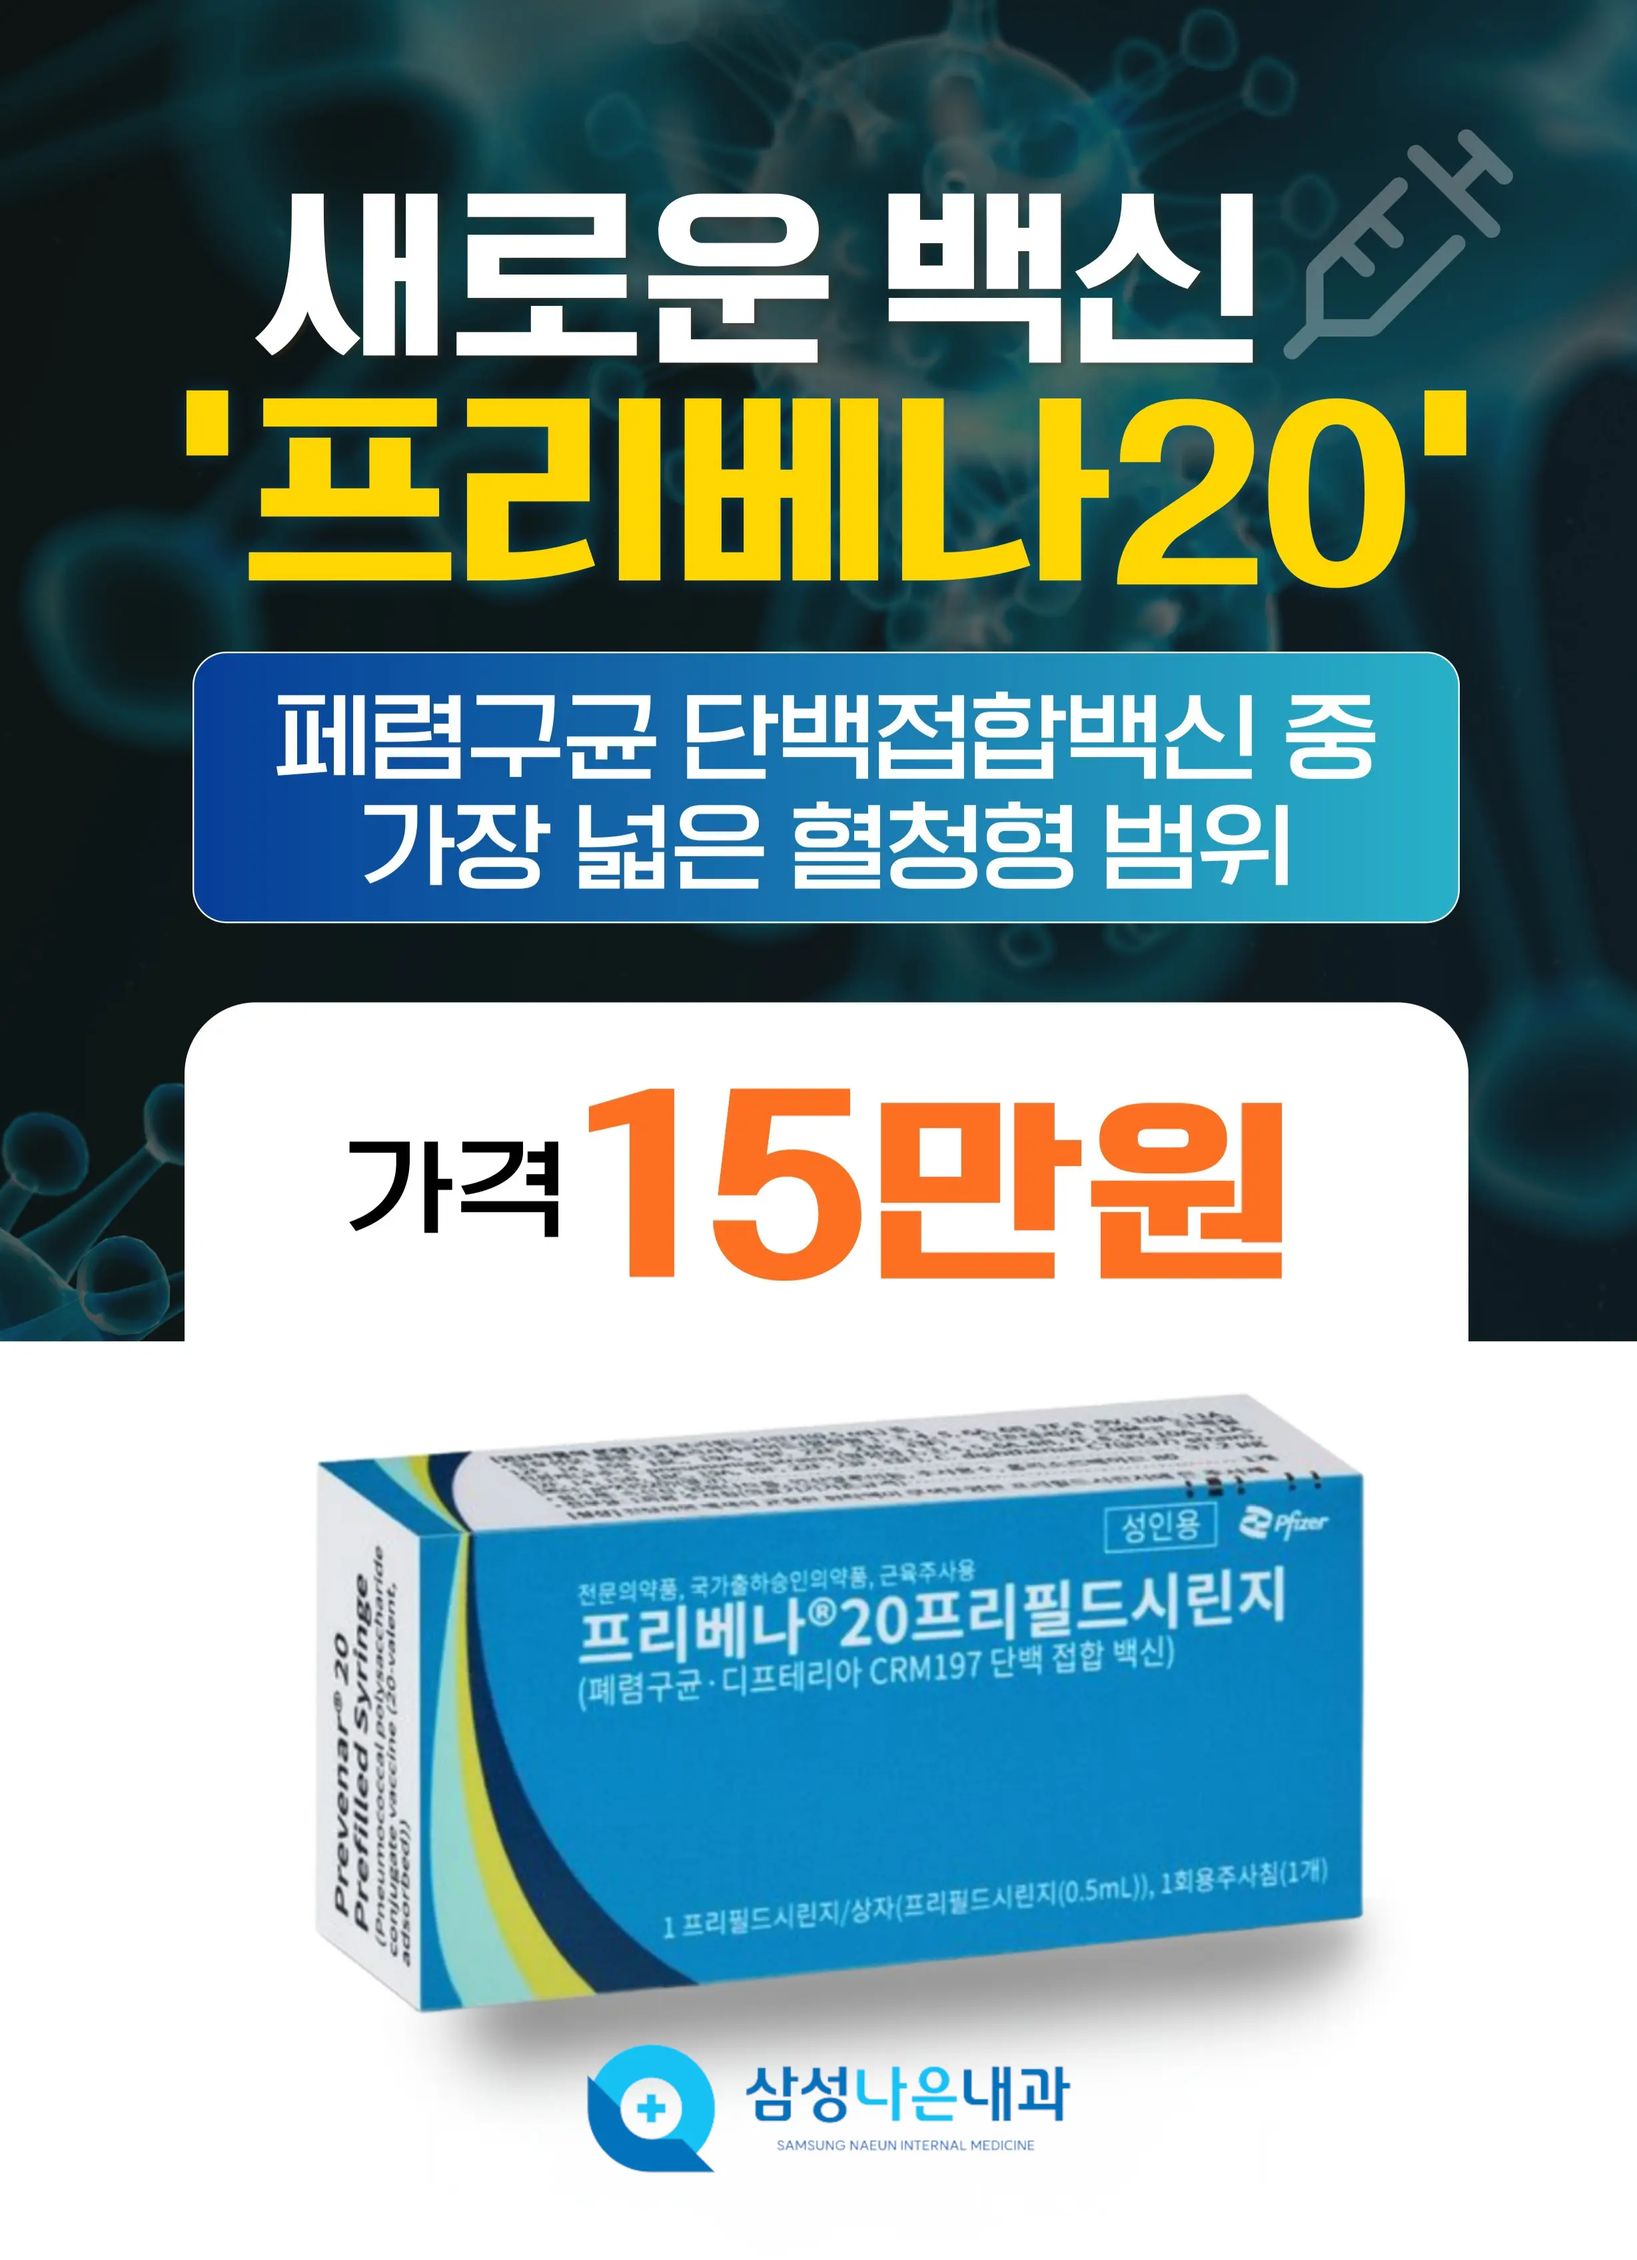
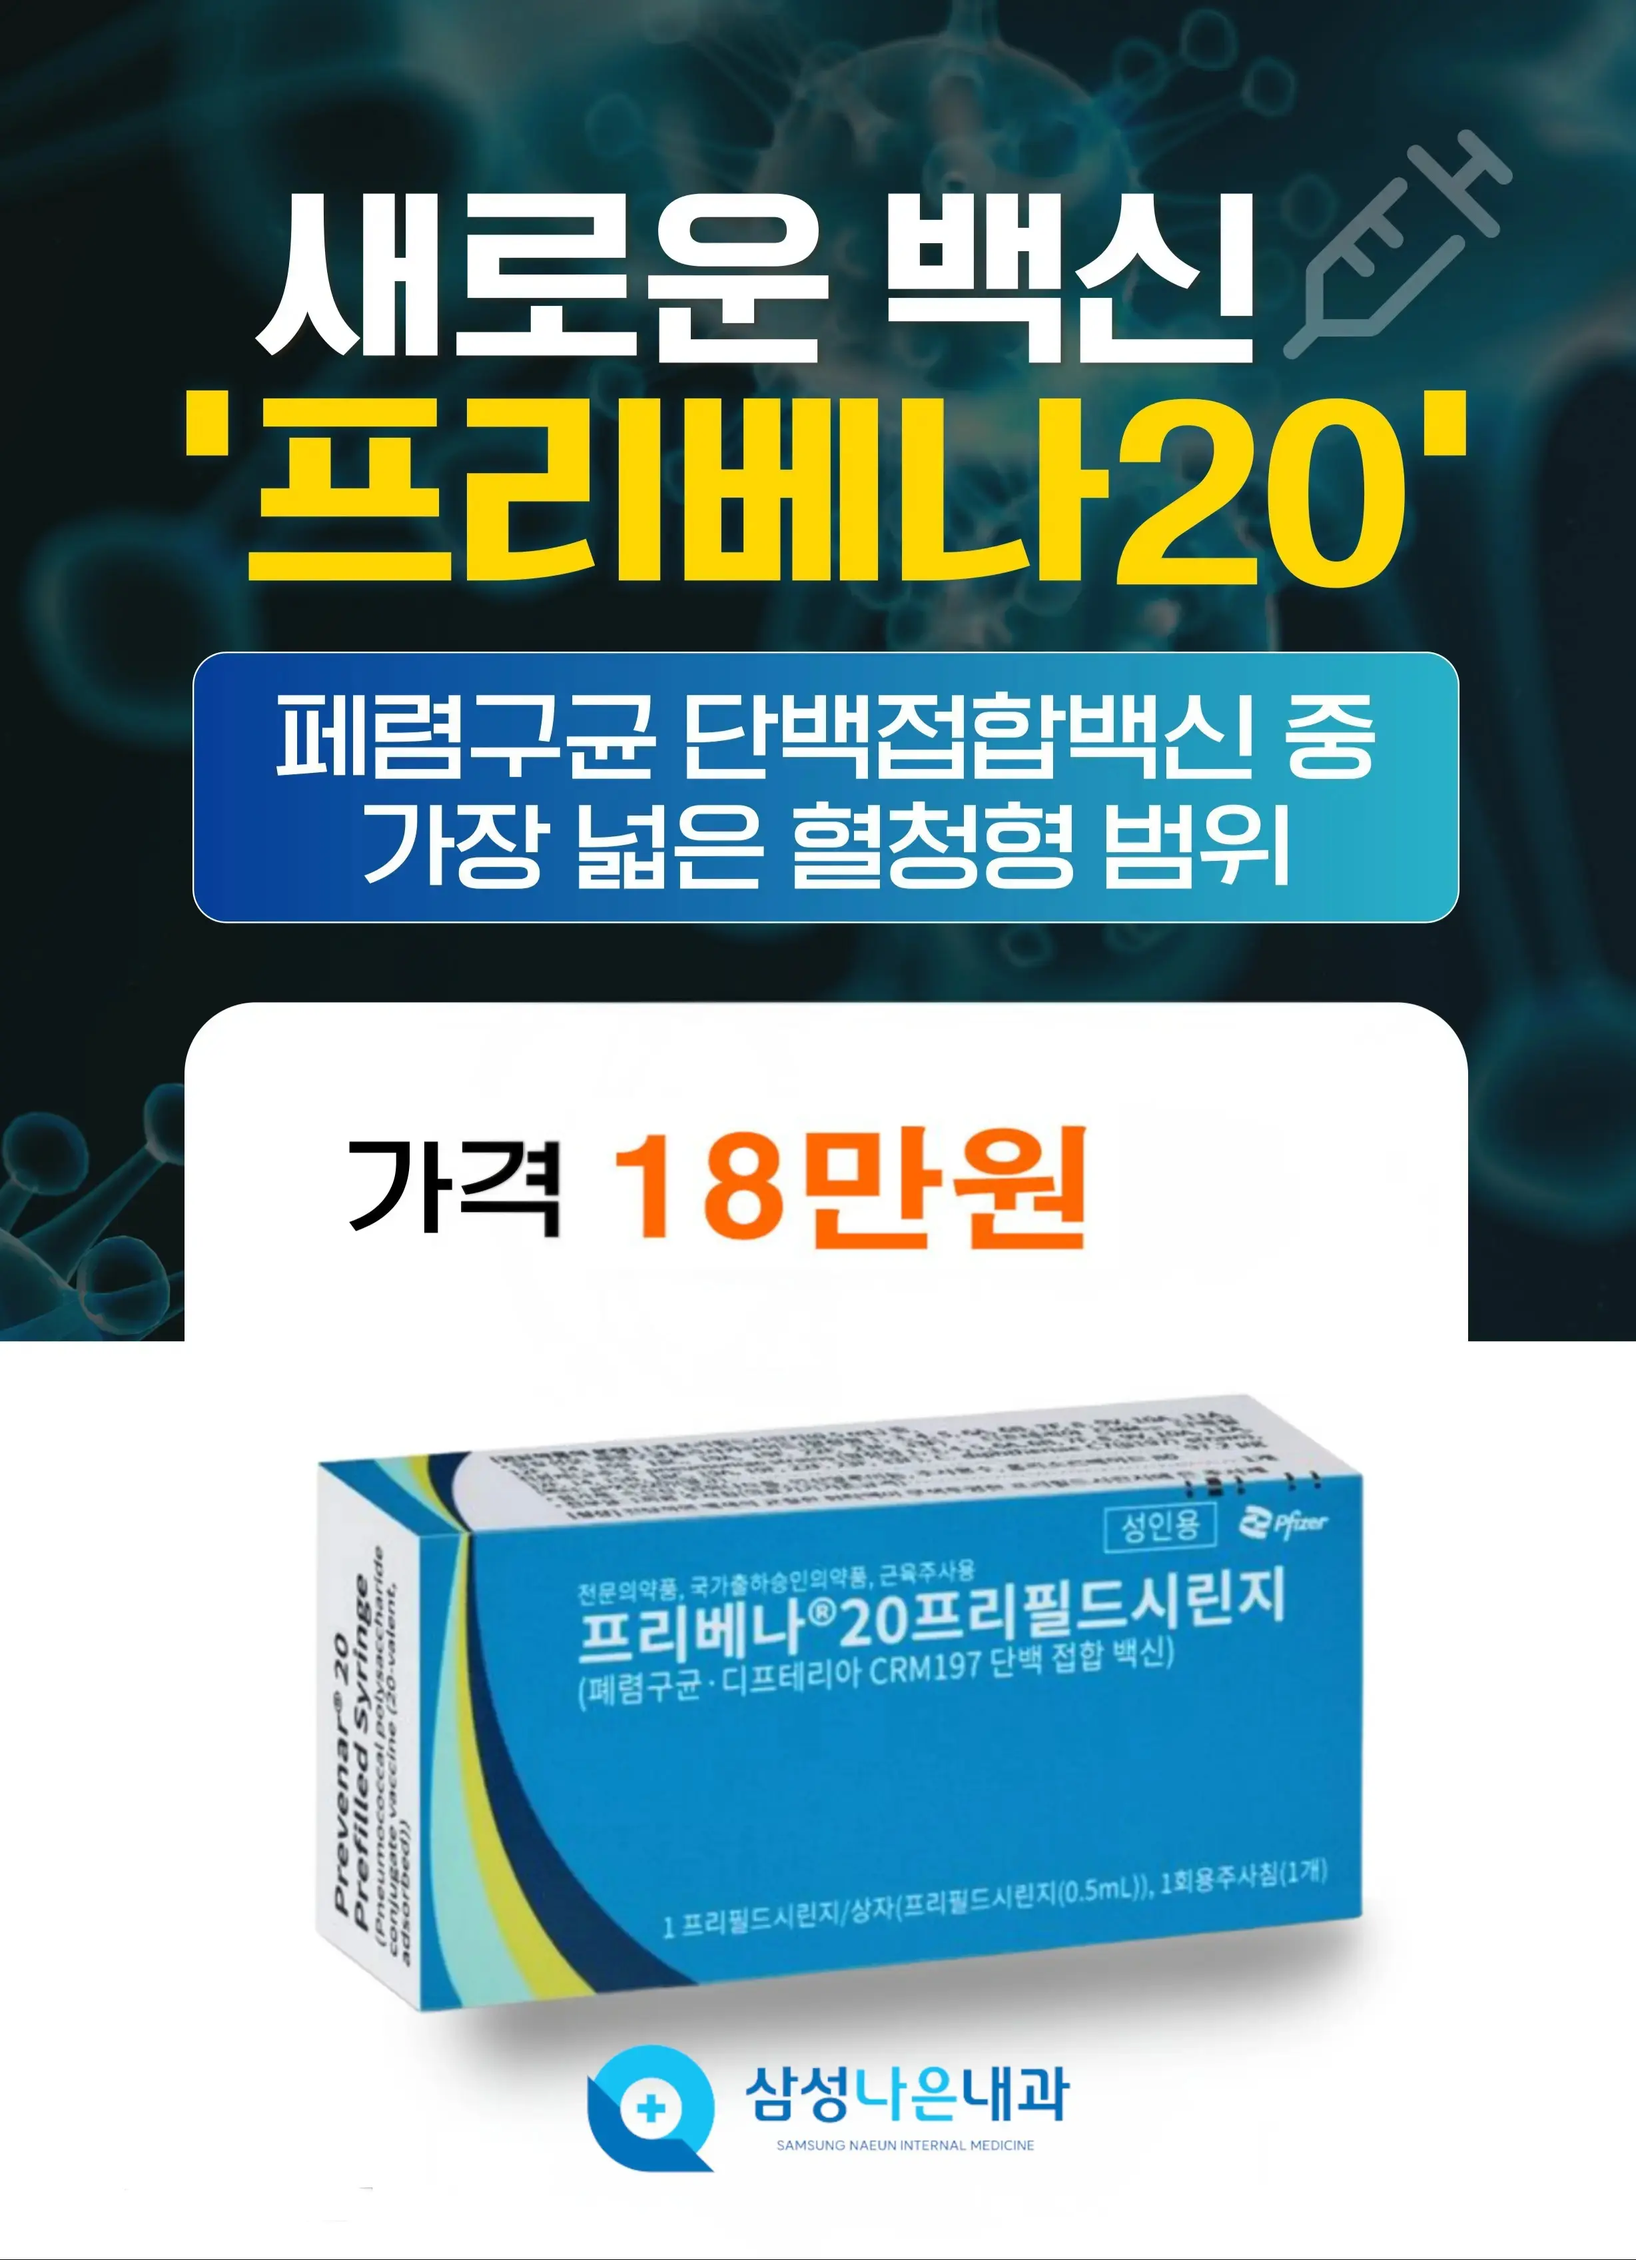
[작업] 프리베나 15만원에서 18만원으로
- desktop popup작업

Changed region(s): [[0.3404, 0.4688, 0.8046, 0.5938], [0.5879, 0.9062, 0.6498, 0.9375], [0.3094, 0.5, 0.3404, 0.5312]]

diff --git a/src/Popup/Popup.js b/src/Popup/Popup.js
@@ -1,0 +1,227 @@
+import React from "react";
+
+let GLOBAL_Z_INDEX = 1000;
+const CLICK_THRESHOLD = 5;
+
+export default function Popup(props) {
+  const {
+    index,
+    image,
+    width,
+    height,
+    initialX,
+    initialY,
+    onClose,
+  } = props;
+
+  const FOOTER_HEIGHT = 30;
+
+  const [pos, setPos] = React.useState({ x: initialX, y: initialY });
+  const [isExpanded, setIsExpanded] = React.useState(false);
+
+  const originRef = React.useRef({
+    x: initialX,
+    y: initialY,
+    width,
+    height,
+  });
+
+  const [zIndex, setZIndex] = React.useState(() => ++GLOBAL_Z_INDEX);
+
+  const dragging = React.useRef(false);
+  const offset = React.useRef({ x: 0, y: 0 });
+
+  const mouseDownPos = React.useRef({ x: 0, y: 0 });
+  const moved = React.useRef(false);
+
+  function bringToFront() {
+    GLOBAL_Z_INDEX += 1;
+    setZIndex(GLOBAL_Z_INDEX);
+  }
+
+  function toggleExpand() {
+    bringToFront();
+    setIsExpanded(prev => !prev);
+  }
+
+  function onMouseDown(e) {
+    bringToFront();
+
+    dragging.current = !isExpanded; // 🔥 확대 중엔 드래그만 금지
+    moved.current = false;
+
+    mouseDownPos.current = {
+      x: e.clientX,
+      y: e.clientY,
+    };
+
+    if (!isExpanded) {
+      offset.current = {
+        x: e.clientX - pos.x,
+        y: e.clientY - pos.y,
+      };
+    }
+  }
+
+  function onMouseMove(e) {
+    const dx = e.clientX - mouseDownPos.current.x;
+    const dy = e.clientY - mouseDownPos.current.y;
+
+    if (Math.abs(dx) > CLICK_THRESHOLD || Math.abs(dy) > CLICK_THRESHOLD) {
+      moved.current = true;
+    }
+
+    if (dragging.current) {
+      setPos({
+        x: e.clientX - offset.current.x,
+        y: e.clientY - offset.current.y,
+      });
+    }
+  }
+
+  function onMouseUp() {
+    dragging.current = false;
+
+    if (!moved.current) {
+      toggleExpand(); // ✅ 확대/축소 모두 처리
+    }
+  }
+
+  function hideOneDay(e) {
+    e.stopPropagation();
+    const until = Date.now() + 24 * 60 * 60 * 1000;
+    localStorage.setItem("popup-hide-" + index, until);
+    onClose();
+  }
+
+  function closePopup(e) {
+    e.stopPropagation();
+    onClose();
+  }
+
+  return React.createElement(
+    React.Fragment,
+    null,
+
+    // dim overlay
+    isExpanded &&
+      React.createElement("div", {
+        onClick: toggleExpand,
+        style: {
+          position: "fixed",
+          inset: 0,
+          background: "rgba(0,0,0,0.4)",
+          zIndex: zIndex - 1,
+        },
+      }),
+
+    // popup
+    React.createElement(
+      "div",
+      {
+        onMouseDownCapture: bringToFront,
+        onMouseDown,
+        onMouseMove,
+        onMouseUp,
+        onMouseLeave: () => (dragging.current = false),
+
+        style: Object.assign(
+          {
+            position: "fixed",
+            left: pos.x,
+            top: pos.y,
+            zIndex,
+            userSelect: "none",
+            cursor: isExpanded ? "default" : "move",
+            background: "transparent",
+          },
+          isExpanded
+            ? {
+                transform: "translate(-50%, -50%)",
+                left: "50%",
+                top: "50%",
+                width: "fit-content",
+                height: "fit-content",
+              }
+            : {
+                width: originRef.current.width,
+                height: originRef.current.height,
+              }
+        ),
+      },
+
+      // content
+      React.createElement(
+        "div",
+        {
+          style: {
+            background: "#fff",
+            boxShadow: "0 8px 24px rgba(0,0,0,0.3)",
+            display: "flex",
+            flexDirection: "column",
+          },
+        },
+
+        // image
+        React.createElement("img", {
+          src: image,
+          draggable: false,
+          style: {
+            width: isExpanded ? "auto" : "100%",
+            height: isExpanded ? "auto" : height - FOOTER_HEIGHT,
+            maxWidth: isExpanded ? "90vw" : "100%",
+            maxHeight: isExpanded ? "90vh" : "100%",
+            objectFit: isExpanded ? "contain" : "fill",
+            display: "block",
+          },
+        }),
+
+        // footer
+        React.createElement(
+          "div",
+          {
+            style: {
+              height: FOOTER_HEIGHT,
+              display: "flex",
+              borderTop: "1px solid #ddd",
+              fontSize: 10,
+            },
+          },
+
+          React.createElement(
+            "div",
+            {
+              onMouseDown: e => e.stopPropagation(),
+              onClick: hideOneDay,
+              style: {
+                flex: 1,
+                display: "flex",
+                justifyContent: "center",
+                alignItems: "center",
+                cursor: "pointer",
+              },
+            },
+            "1일 동안 보지 않음"
+          ),
+
+          React.createElement(
+            "div",
+            {
+              onMouseDown: e => e.stopPropagation(),
+              onClick: closePopup,
+              style: {
+                flex: 1,
+                display: "flex",
+                justifyContent: "center",
+                alignItems: "center",
+                cursor: "pointer",
+                borderLeft: "1px solid #ddd",
+              },
+            },
+            "닫기"
+          )
+        )
+      )
+    )
+  );
+}

diff --git a/src/App.js b/src/App.js
@@ -14,6 +14,7 @@ import Seciont9 from "./Sections/section9.js";
 import Seciont10 from "./Sections/section10.js";
 import Seciont12 from "./Sections/section12.js";
 import Interior from "./Sections/Interior.js";
+import PopupGroup from './Popup/PopupGroup.js';
 import Adress from "./address.js";
 import FloatingButton from "./FloatingButton.js";
 import KakaoMap from "./kakaomap.js";
@@ -21,6 +22,20 @@ import Popup from "./popup.js";
 
 
 const App = () => {
+
+  // 🔥 최초 렌더 시 screenWidth 스냅샷
+  const initialScreenWidthRef = React.useRef(window.innerWidth);
+
+  // 🔥 ratio도 최초 한 번만 결정
+  const ratioRef = React.useRef(
+    initialScreenWidthRef.current >= 2500 ? 1.4 : 1
+  );
+
+  // 이후 resize 되어도 값 안 변함
+  const ratio = ratioRef.current;
+
+  
+  
   const [zOrders, setZOrders] = useState([1000, 2000]); // 오버레이 2개
 
   const bringToFront = (index) => {
@@ -76,9 +91,10 @@ const App = () => {
   const pos1 = getCenterPosition({ offsetXPercent: initialPositions[0].x, offsetYPercent: initialPositions[0].y });
   const pos2 = getCenterPosition2({ offsetXPercent: initialPositions[1].x, offsetYPercent: initialPositions[1].y });
   const pos3 = getCenterPosition3({ offsetXPercent: initialPositions[2].x, offsetYPercent: initialPositions[2].y });
-  const imageurl1 = !isMobile ? "/images/popup/gumjin2.png" : "/images/popup/gumjin2.png";
   const imageurl2 = !isMobile ? "/images/popup/popup5.webp" : "/images/popup/mobile/popup5.webp";
   const imageurl3 = !isMobile ? "/images/popup/popup3.webp": "/images/popup/mobile/popup3.webp";
+  
+  const imageurl1 = "/images/popup/e.webp";
   const imageurl4 = "/images/popup/a.webp";
   const imageurl5 = "/images/popup/b.webp";
   const imageurl6 = "/images/popup/c.webp";
@@ -92,7 +108,15 @@ const App = () => {
           </>
       ) : (
         <>
-        <Popup 
+        <div>
+          <PopupGroup
+            images={[imageurl1, imageurl4, imageurl5, imageurl6, imageurl7]}
+            width={360 * ratio}
+            height={500 * ratio}
+            gap={20}
+          />
+        </div>
+        {/* <Popup 
             imageUrl={imageurl2}
             zIndex={zOrders[1]}
             onBringToFront={() => bringToFront(1)}
@@ -102,7 +126,7 @@ const App = () => {
           zIndex={zOrders[0]}
           onBringToFront={() => bringToFront(2)}
           initialPosition={pos3}
-        />
+        /> */}
         </>
       )}
       {/* <Popup imageUrl={imageurl3}

diff --git a/public/index.html b/public/index.html
@@ -13,21 +13,20 @@
     <meta property="og:site_name" content="삼성나은내과" />
     <meta property="og:title" content="구리 삼성나은내과" />
     <meta
+      name="viewport"
+      content="width=device-width, initial-scale=1.0"
+    />
+    <meta
       property="og:description"
       content="구리 인창동 내과, 건강검진, 5대암검진"
     />
     <meta property="og:image" content="%PUBLIC_URL%/logo3.png" />
     <meta property="og:url" content="https://www.ssnaeun.co.kr" />
+    <link rel="preload" as="image" href="/images/popup/e.webp" imagesrcset="/images/popup/e.webp" />
     <link rel="preload" as="image" href="/images/popup/d.webp" imagesrcset="/images/popup/d.webp" />
     <link rel="preload" as="image" href="/images/popup/c.webp" imagesrcset="/images/popup/c.webp" />
     <link rel="preload" as="image" href="/images/popup/b.webp" imagesrcset="/images/popup/b.webp" />
     <link rel="preload" as="image" href="/images/popup/a.webp" imagesrcset="/images/popup/a.webp" />
-    <!-- <link rel="preload" as="image" href="/images/popup/popup.webp" imagesrcset="/images/popup/popup.webp" /> -->
-    <link rel="preload" as="image" href="/images/popup/popup3.webp" imagesrcset="/images/popup/popup3.webp" />
-    <link rel="preload" as="image" href="/images/popup/popup5.webp" imagesrcset="/images/popup/popup5.webp" />
-    <!-- <link rel="preload" as="image" href="/images/popup/popup.webp" imagesrcset="/images/popup/mobile/popup.webp" /> -->
-    <link rel="preload" as="image" href="/images/popup/popup3.webp" imagesrcset="/images/popup/mobile/popup3.webp" />
-    <link rel="preload" as="image" href="/images/popup/popup5.webp" imagesrcset="/images/popup/mobile/popup5.webp" />
     <link rel="apple-touch-icon" href="%PUBLIC_URL%/logo192.png" />
     <!--
       manifest.json provides metadata used when your web app is installed on a

diff --git a/src/Popup/PopupGroup.js b/src/Popup/PopupGroup.js
@@ -1,0 +1,66 @@
+import React from "react";
+import Popup from "./Popup.js";
+
+export default function PopupGroup(props) {
+  const images = props.images;
+  const width = props.width;
+  const height = props.height;
+  const gap = props.gap;
+
+  const [visible, setVisible] = React.useState([]);
+
+  // React.useEffect(function () {
+  //   // 🔥 테스트 중엔 전부 보이게
+  //   setVisible(images.map(() => true));
+  // }, [images]);
+
+  React.useEffect(function () {
+    const now = Date.now();
+
+    const v = images.map(function (_, i) {
+      const hideUntil = localStorage.getItem("popup-hide-" + i);
+      return !hideUntil || now > Number(hideUntil);
+    });
+
+    setVisible(v);
+  }, [images]);
+
+  const active = visible
+    .map(function (v, i) {
+      return v ? i : null;
+    })
+    .filter(function (v) {
+      return v !== null;
+    });
+
+  if (active.length === 0) return null;
+
+  const centerX = window.innerWidth / 2;
+  const count = active.length;
+
+  return React.createElement(
+    React.Fragment,
+    null,
+    active.map(function (index, order) {
+      const offset =
+        (order - (count - 1) / 2) * (width + gap);
+
+      return React.createElement(Popup, {
+        key: index,
+        index: index,
+        image: images[index],
+        width: width,
+        height: height,
+        initialX: centerX + offset - width / 2,
+        initialY: 100,
+        onClose: function () {
+          setVisible(function (prev) {
+            return prev.map(function (v, i) {
+              return i === index ? false : v;
+            });
+          });
+        },
+      });
+    })
+  );
+}
